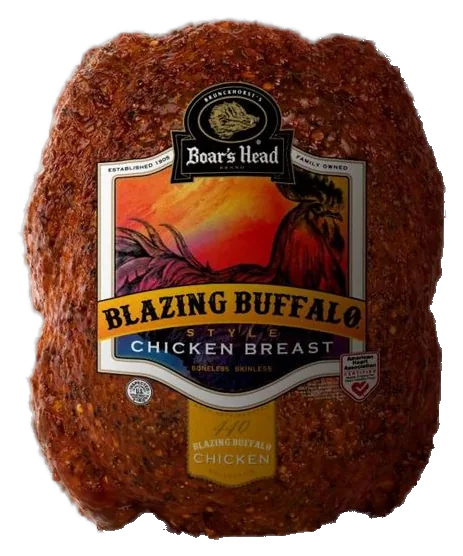
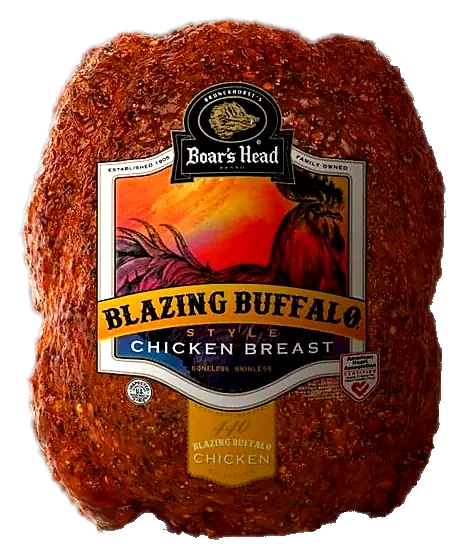
Put the public meat case back on cream cards (#42)
* Put the public meat case back on cream cards.

Meats use the same tiles as the cheese case. Photos, prices, and the whole-piece order dialog stay as they are.

* Use the more saturated Buffalo chicken cutout.

Same filename and mapping, with the photo cache bumped so the new color shows.

---------

diff --git a/styles.css b/styles.css
@@ -755,177 +755,13 @@ body.dark-mode .mc-tile-filled.mc-cat-cheese{ background:linear-gradient(160deg,
 @media (prefers-reduced-motion:reduce){
   .deli-case-card, .deli-case-card:hover{ transition:none; }
 }
-.deli-meat-case{ margin:0 0 28px; }
-.deli-meat-window{
-  position:relative;
-  border:3px solid var(--brown);
-  border-radius:3px 3px 10px 10px;
-  background:
-    linear-gradient(180deg, color-mix(in srgb, var(--paper) 28%, transparent), color-mix(in srgb, var(--parchment) 38%, transparent)),
-    var(--parchment);
-  box-shadow:inset 0 0 0 1px color-mix(in srgb, var(--paper) 55%, transparent), 0 14px 28px -10px rgba(44,36,23,0.22);
-  overflow:hidden;
-}
-.deli-meat-interior{
-  position:relative;
-  padding:10px 16px 16px;
-  background:
-    linear-gradient(180deg, color-mix(in srgb, var(--paper) 55%, transparent), transparent 48px),
-    linear-gradient(180deg, color-mix(in srgb, var(--green-moss) 16%, transparent), transparent 36%);
-}
-.deli-meat-glass{
-  pointer-events:none;
-  position:absolute;
-  inset:0;
-  z-index:3;
-  background:linear-gradient(118deg,
-    color-mix(in srgb, var(--paper) 78%, transparent) 0%,
-    color-mix(in srgb, var(--paper) 32%, transparent) 14%,
-    transparent 26%,
-    transparent 58%,
-    color-mix(in srgb, var(--paper) 34%, transparent) 74%,
-    transparent 90%);
-}
-.deli-meat-shelf{ position:relative; margin:0 0 4px; }
-.deli-meat-shelf .deli-shelf-label{ position:relative; z-index:4; margin:6px 2px 0; }
-.deli-meat-row{
-  --shelf-gap:10px;
-  --shelf-cols:5;
-  display:flex;
-  flex-wrap:wrap;
-  justify-content:center;
-  align-items:end;
-  gap:4px var(--shelf-gap);
-  padding:2px 2px 0;
-}
-.deli-meat-row > .deli-meat-item{
-  flex:0 0 calc((100% - (var(--shelf-cols) - 1) * var(--shelf-gap)) / var(--shelf-cols));
-  max-width:calc((100% - (var(--shelf-cols) - 1) * var(--shelf-gap)) / var(--shelf-cols));
-}
-.deli-meat-ledge{
-  position:relative;
-  z-index:4;
-  height:10px;
-  margin:2px 0 4px;
-  background:linear-gradient(180deg,
-    color-mix(in srgb, var(--paper) 82%, transparent) 0 2px,
-    color-mix(in srgb, var(--paper) 45%, transparent) 2px 5px,
-    color-mix(in srgb, var(--gold) 22%, transparent) 70%,
-    color-mix(in srgb, var(--brown) 16%, transparent));
-  border-top:1px solid color-mix(in srgb, var(--paper) 70%, transparent);
-  clip-path:polygon(0 0, 100% 0, 99.3% 100%, 0.7% 100%);
-  box-shadow:0 3px 7px rgba(44,36,23,0.10);
-}
-.deli-meat-ledge.only-mobile{ display:none; }
-.deli-meat-item{
-  appearance:none;
-  -webkit-appearance:none;
-  display:flex;
-  flex-direction:column;
-  align-items:center;
-  justify-content:flex-end;
-  gap:5px;
-  width:100%;
-  min-width:0;
-  padding:0 2px;
-  margin:0;
-  border:0;
-  background:transparent;
-  color:var(--ink);
-  -webkit-text-fill-color:currentcolor;
-  font:inherit;
-  cursor:pointer;
-  text-align:center;
-}
-.deli-meat-item,
-.deli-meat-item *{ -webkit-text-fill-color:currentcolor; }
-.deli-meat-photo{
-  display:grid;
-  place-items:end center;
-  width:100%;
-  height:140px;
-  position:relative;
-  z-index:2;
-}
-.deli-meat-photo .deli-photo,
-.deli-meat-photo .mc-deli-icon,
-.deli-meat-photo .mc-tile-emoji{ width:100%; height:140px; background:transparent; }
-.deli-meat-photo img,
-.deli-meat-photo .mc-deli-icon{
-  max-width:100%;
-  max-height:140px;
-  width:auto;
-  height:auto;
-  object-fit:contain;
-  object-position:center bottom;
-  display:block;
-  filter:drop-shadow(0 7px 5px rgba(44,36,23,0.28));
-  transition:transform 180ms ease;
-}
-.deli-meat-tag{
-  position:relative;
-  z-index:4;
-  display:flex;
-  flex-direction:column;
-  align-items:center;
-  justify-content:center;
-  gap:1px;
-  width:100%;
-  min-height:2.7em;
-  padding:4px 6px 5px;
-  margin-bottom:-2px;
-  background:var(--paper);
-  border:1px solid color-mix(in srgb, var(--brown-dark) 28%, transparent);
-  border-radius:2px 2px 1px 1px;
-  box-shadow:inset 0 1px 0 color-mix(in srgb, var(--paper) 75%, white), 0 1px 2px rgba(44,36,23,0.16);
-  transform:rotate(var(--tilt, 0deg));
-  transition:transform 180ms ease, box-shadow 180ms ease;
-}
-.deli-meat-name{
-  font-family:var(--font-display);
-  font-weight:600;
-  font-size:13px;
-  line-height:1.2;
-  color:var(--ink);
-}
-.deli-meat-price{
-  font-family:var(--font-mono);
-  font-size:11px;
-  color:var(--ink-soft);
-}
-.deli-meat-item:focus-visible{ outline:none; }
-.deli-meat-item:focus-visible .deli-meat-tag{ outline:2px solid var(--terracotta); outline-offset:3px; }
-@media (hover:hover) and (pointer:fine){
-  .deli-meat-item:hover .deli-meat-photo img,
-  .deli-meat-item:hover .deli-meat-photo .mc-deli-icon{ transform:translateY(-3px); }
-  .deli-meat-item:hover .deli-meat-tag{
-    transform:rotate(0deg) translateY(-2px);
-    box-shadow:inset 0 1px 0 color-mix(in srgb, var(--paper) 75%, white), 0 4px 10px -3px rgba(44,36,23,0.28);
-    border-color:var(--terracotta);
-  }
-}
-@media (prefers-reduced-motion:reduce){
-  .deli-meat-photo img, .deli-meat-photo .mc-deli-icon, .deli-meat-tag,
-  .deli-meat-item:hover .deli-meat-tag,
-  .deli-meat-item:hover .deli-meat-photo img,
-  .deli-meat-item:hover .deli-meat-photo .mc-deli-icon{ transition:none; }
-}
+#mc-public-case > .deli-case:not(.deli-cheese-case){ margin-bottom:28px; }
 @media (max-width:900px){
   .deli-shelf-row{ grid-template-columns:repeat(3, minmax(0, 1fr)); }
-  .deli-meat-row{ --shelf-cols:3; }
-  .deli-meat-photo, .deli-meat-photo .deli-photo, .deli-meat-photo .mc-deli-icon{ height:132px; }
-  .deli-meat-photo img, .deli-meat-photo .mc-deli-icon{ max-height:132px; }
 }
 @media (max-width:640px){
   .deli-case{ padding:10px 8px 14px; }
   .deli-shelf-row{ grid-template-columns:repeat(2, minmax(0, 1fr)); gap:8px; }
-  .deli-meat-interior{ padding:8px 8px 12px; }
-  .deli-meat-window{ border-width:2.5px; }
-  .deli-meat-row{ --shelf-cols:2; --shelf-gap:8px; gap:6px var(--shelf-gap); }
-  .deli-meat-ledge.only-mobile{ display:block; flex:0 0 100%; width:100%; max-width:none; }
-  .deli-meat-photo, .deli-meat-photo .deli-photo, .deli-meat-photo .mc-deli-icon{ height:120px; }
-  .deli-meat-photo img, .deli-meat-photo .mc-deli-icon{ max-height:120px; }
-  .deli-meat-name{ font-size:12.5px; }
   .deli-shelf-label{ font-size:24px; }
   .deli-case-card .mc-deli-icon{ width:48px; height:48px; }
   .deli-case-name{ font-size:13px; }

diff --git a/deli-counter-ui.js b/deli-counter-ui.js
@@ -118,46 +118,6 @@ function deliShelfHTML(label, items) {
     '</div><div class="deli-shelf-edge" aria-hidden="true"></div></section>';
 }
 
-function deliMeatItemHTML(item, index) {
-  var open = item.catalog === "counter"
-    ? "deliOpenItem('" + item.id + "')"
-    : "openMeatCheeseOrderModal('" + item.id + "')";
-  var name = item.displayName || item.name;
-  var price = deliPriceAmount(item);
-  var tilts = ["-0.8deg", "0.6deg", "-0.3deg"];
-  return '<button type="button" class="deli-meat-item" style="--tilt:' + tilts[index % 3] + '" onclick="' + open + '" aria-label="' +
-    escHtmlAttr(name + (price ? ", " + price : "") + ". Opens the order dialog.") + '">' +
-    '<span class="deli-meat-photo">' + deliItemMarkHTML(item) + "</span>" +
-    '<span class="deli-meat-tag"><span class="deli-meat-name">' + escHtml(name) + "</span>" +
-    (price ? '<span class="deli-meat-price">' + escHtml(price) + "</span>" : "") +
-    "</span></button>";
-}
-
-/* Five items per desktop shelf. A frosted ledge follows each of those rows.
-   On a phone the row wraps at two items, so a ledge is also inserted after
-   every second item and only shown at that width. */
-function deliMeatRowsHTML(items) {
-  var html = "";
-  var cols = 5;
-  for (var start = 0; start < items.length; start += cols) {
-    var slice = items.slice(start, start + cols);
-    var bits = [];
-    slice.forEach(function (item, index) {
-      if (index > 0 && index % 2 === 0) bits.push('<div class="deli-meat-ledge only-mobile" aria-hidden="true"></div>');
-      bits.push(deliMeatItemHTML(item, start + index));
-    });
-    html += '<div class="deli-meat-row">' + bits.join("") + '</div><div class="deli-meat-ledge" aria-hidden="true"></div>';
-  }
-  return html;
-}
-
-function deliMeatShelfHTML(label, items) {
-  if (!items.length) return "";
-  var id = "deli-shelf-" + String(label).toLowerCase().replace(/[^a-z]+/g, "");
-  return '<section class="deli-meat-shelf" aria-labelledby="' + id + '"><h3 class="deli-shelf-label" id="' + id + '">' +
-    escHtml(label) + "</h3>" + deliMeatRowsHTML(items) + "</section>";
-}
-
 function deliTileHTML(item) {
   var open = item.catalog === "counter"
     ? "deliOpenItem('" + item.id + "')"
@@ -213,14 +173,11 @@ function deliRenderPublicLists() {
   var grouped = DeliCounter.groupCatalog(db.meatCheeseItems || [], deliThreshold(), { publicOnly: true, settings: deliRuntimeSettings() });
   el.classList.remove("deli-case");
   var meats = grouped.meats.map(function (group) {
-    return deliMeatShelfHTML(group.label, group.items);
+    return deliShelfHTML(group.label, group.items);
   }).join("");
   var cheeses = deliShelfHTML("Cheeses", grouped.cheeses);
   var html = "";
-  if (meats) {
-    html += '<div class="deli-meat-case"><div class="deli-meat-window"><div class="deli-meat-interior">' + meats +
-      '</div><div class="deli-meat-glass" aria-hidden="true"></div></div></div>';
-  }
+  if (meats) html += '<div class="deli-case">' + meats + "</div>";
   if (cheeses) html += '<div class="deli-case deli-cheese-case">' + cheeses + "</div>";
   el.innerHTML = html || '<p class="empty-note">Nothing available right now.</p>';
   deliRenderSlip();

diff --git a/deli-counter.test.js b/deli-counter.test.js
@@ -523,11 +523,11 @@ test("re-import keeps an icon and the hide flags", () => {
 
 test("a Boar's Head photo follows the Toast name, and a saved URL replaces it", () => {
   const Photos = require("./deli-photos.js");
-  assert.match(Photos.photoFor({ toastName: "Turkey Ovengold" }), /assets\/deli-photos\/ovengold\.webp\?v=6$/);
-  assert.match(Photos.photoFor({ toastName: "Chicken Chipotle" }), /chipotle-chicken\.webp\?v=6$/);
-  assert.match(Photos.photoFor({ toastName: "Ham Spiral Sliced" }), /assets\/deli-photos\/spiral-ham\.webp\?v=6$/);
-  assert.match(Photos.photoFor({ toastName: "Classic Rst Turkey Breast" }), /classic-roast-turkey\.webp\?v=6$/);
-  assert.match(Photos.photoFor({ toastName: "Classic Roast Turkey Brst" }), /classic-roast-turkey\.webp\?v=6$/);
+  assert.match(Photos.photoFor({ toastName: "Turkey Ovengold" }), /assets\/deli-photos\/ovengold\.webp\?v=7$/);
+  assert.match(Photos.photoFor({ toastName: "Chicken Chipotle" }), /chipotle-chicken\.webp\?v=7$/);
+  assert.match(Photos.photoFor({ toastName: "Ham Spiral Sliced" }), /assets\/deli-photos\/spiral-ham\.webp\?v=7$/);
+  assert.match(Photos.photoFor({ toastName: "Classic Rst Turkey Breast" }), /classic-roast-turkey\.webp\?v=7$/);
+  assert.match(Photos.photoFor({ toastName: "Classic Roast Turkey Brst" }), /classic-roast-turkey\.webp\?v=7$/);
   assert.match(Photos.photoFor({ toastName: "Blck Wax Cheddar" }), /^$/);
   assert.equal(Photos.photoFor({ toastName: "Chipped Meat" }), "");
   assert.equal(

diff --git a/index.html b/index.html
@@ -16,7 +16,7 @@
 <meta name="theme-color" content="#c49a6c">
 <link rel="preconnect" href="https://fonts.googleapis.com">
 <link href="https://fonts.googleapis.com/css2?family=Fraunces:opsz,wght@9..144,400;9..144,500;9..144,600;9..144,700&family=Lora:ital,wght@0,400;0,500;0,600;1,400&family=JetBrains+Mono:wght@400;500&family=Special+Elite&family=Caveat:wght@500;700&display=swap" rel="stylesheet">
-<link rel="stylesheet" href="styles.css?v=46">
+<link rel="stylesheet" href="styles.css?v=47">
 <link rel="stylesheet" href="ledger.css?v=5">
 <link rel="stylesheet" href="closure.css?v=1">
 <link rel="stylesheet" href="newspaper.css?v=7">
@@ -265,8 +265,8 @@
 <script src="deli-counter.js?v=12"></script>
 <script src="deli-counter-seed.js?v=1"></script>
 <script src="deli-icons.js?v=3"></script>
-<script src="deli-photos.js?v=6"></script>
-<script src="deli-counter-ui.js?v=15"></script>
+<script src="deli-photos.js?v=7"></script>
+<script src="deli-counter-ui.js?v=16"></script>
 <script src="app.js?v=82"></script>
 <script src="ledger-motion.js?v=2"></script>
 <script src="newspaper.js?v=1"></script>

diff --git a/deli-photos.js b/deli-photos.js
@@ -73,7 +73,7 @@ var DeliPhotos = (function () {
     var i;
     for (i = 0; i < names.length; i++) {
       var key = normalize(names[i]);
-      if (BY_TOAST[key]) return BY_TOAST[key] + "?v=6";
+      if (BY_TOAST[key]) return BY_TOAST[key] + "?v=7";
     }
     return "";
   }
